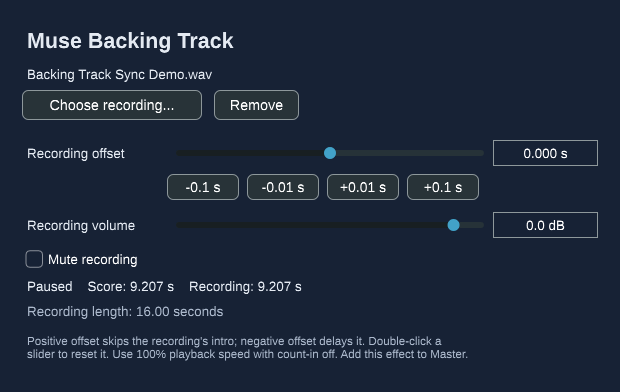
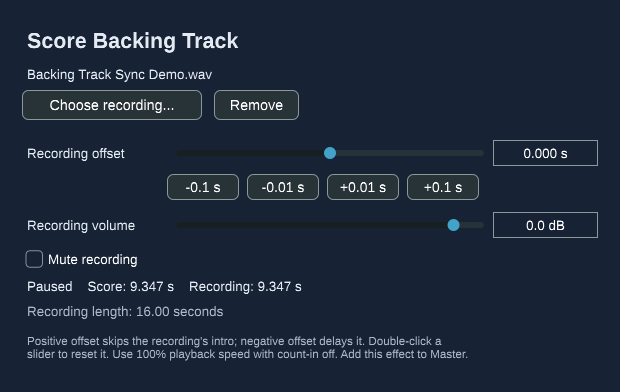
Rename to Score Backing Track (vendor AlltAWD), version 0.1.0
The 'Muse' name could read as an official Muse Group/MuseScore product.
New plugin identity: AlltAWD → Score Backing Track, bundle ID
io.github.alltawd.scorebackingtrack, manufacturer code Atwd.
GUI harness now selects the registry entry by plugin id.

Changed region(s): [[0.0306, 0.0612, 0.3984, 0.1531], [0.429, 0.7041, 0.4597, 0.7653]]

diff --git a/native/scripts/gui_native.py b/native/scripts/gui_native.py
@@ -29,7 +29,9 @@ def main(appimage):
     # restore-session dialog on the next run and block the test.
     (user_data / "session/session.json").unlink(missing_ok=True)
     registry = json.loads((root / "artifacts/native-verification/data/MuseScore/MuseScore4/known_audio_plugins.json").read_text())
-    registry[0]["path"] = str(Path.home() / ".vst3/Muse Backing Track.vst3")
+    # The scan registry can hold stale entries; keep only this plugin, at its installed path.
+    registry = [entry for entry in registry if entry["meta"]["id"] == "Score Backing Track"]
+    registry[0]["path"] = str(Path.home() / ".vst3/Score Backing Track.vst3")
     (user_data / "known_audio_plugins.json").write_text(json.dumps(registry))
     (user_data / "extensions").mkdir(exist_ok=True)
     (user_data / "extensions/config.json").write_text(json.dumps([{
@@ -157,6 +159,6 @@ MuseScore {
                 os.killpg(process.pid, signal.SIGKILL); process.wait(5)
     text = (out / "musescore.log").read_text(errors="replace")
     print("\n".join(line for line in text.splitlines() if any(x in line for x in ["NATIVEGUI", "TypeError", "ReferenceError", "VstView", "VstEditor", "Failed to"]))[-8000:])
-    assert "fx=Muse Backing Track" in text, "Native Master effect was not available"
+    assert "fx=Score Backing Track" in text, "Native Master effect was not available"
     assert (out / "playing.png").exists(), "Live transport test did not reach playback"
     print("Native GUI test reached play/pause/seek; screenshots:", out, flush=True)

diff --git a/native/scripts/verify_native.py b/native/scripts/verify_native.py
@@ -38,8 +38,8 @@ data.mkdir(exist_ok=True)
 env = {**os.environ, "XDG_CONFIG_HOME": str(config), "XDG_DATA_HOME": str(data),
     "QT_QPA_PLATFORM": "xcb", "QT_QUICK_BACKEND": "software", "QT_OPENGL": "software"}
 env.pop("PYTHONPATH", None)
-binary = root / "native/build/MuseBacking_artefacts/Release/VST3/Muse Backing Track.vst3"
-tests = root / "native/build/MuseBackingTests_artefacts/Release/MuseBackingTests"
+binary = root / "native/build/ScoreBacking_artefacts/Release/VST3/Score Backing Track.vst3"
+tests = root / "native/build/ScoreBackingTests_artefacts/Release/ScoreBackingTests"
 
 
 def run(name, command, timeout=90):
@@ -75,7 +75,7 @@ with zipfile.ZipFile(out / "base.mscz") as archive:
     settings = json.loads(archive.read("audiosettings.json"))
 print(json.dumps(settings, indent=2), flush=True)
 
-meta = next(item["meta"] for item in json.loads(registry.read_text()) if item["meta"]["id"] == "Muse Backing Track")
+meta = next(item["meta"] for item in json.loads(registry.read_text()) if item["meta"]["id"] == "Score Backing Track")
 assert "Generator" in meta["attributes"]["categories"], "Host must recognize generator category"
 # The registry and score serializers use different names for the same type.
 meta["type"] = "vst_plugin"

diff --git a/native/scripts/install_native.py b/native/scripts/install_native.py
@@ -8,7 +8,7 @@ import sys
 
 root = Path(__file__).resolve().parents[2]
 parser = argparse.ArgumentParser(description=__doc__)
-parser.add_argument("--bundle", type=Path, default=root / "native/build/MuseBacking_artefacts/Release/VST3/Muse Backing Track.vst3")
+parser.add_argument("--bundle", type=Path, default=root / "native/build/ScoreBacking_artefacts/Release/VST3/Score Backing Track.vst3")
 parser.add_argument("--destination", type=Path)
 args = parser.parse_args()
 if args.destination:
@@ -25,4 +25,4 @@ target = directory / args.bundle.name
 directory.mkdir(parents=True, exist_ok=True)
 shutil.copytree(args.bundle, target, dirs_exist_ok=True)
 print("Installed:", target)
-print("Restart MuseScore. In Mixer, add MuseBacking → Muse Backing Track to Master effects.")
+print("Restart MuseScore. In Mixer, add AlltAWD → Score Backing Track to Master effects.")

diff --git a/native/src/PluginProcessor.cpp b/native/src/PluginProcessor.cpp
@@ -19,7 +19,7 @@ juce::AudioProcessorValueTreeState::ParameterLayout BackingProcessor::makeParame
 BackingProcessor::BackingProcessor()
     : AudioProcessor(BusesProperties().withInput("Input", juce::AudioChannelSet::stereo(), true)
                                      .withOutput("Output", juce::AudioChannelSet::stereo(), true)),
-      parameters(*this, nullptr, "MuseBackingState", makeParameters()),
+      parameters(*this, nullptr, "ScoreBackingState", makeParameters()),
       offsetParameter(parameters.getRawParameterValue("offset")),
       gainParameter(parameters.getRawParameterValue("gain")),
       muteParameter(parameters.getRawParameterValue("mute"))

diff --git a/native/src/PluginEditor.cpp b/native/src/PluginEditor.cpp
@@ -10,7 +10,7 @@ BackingEditor::BackingEditor(BackingProcessor& owner)
         addAndMakeVisible(*label);
         label->setColour(juce::Label::textColourId, juce::Colour(0xffe4eaf2));
     }
-    title.setText("Muse Backing Track", juce::dontSendNotification);
+    title.setText("Score Backing Track", juce::dontSendNotification);
     title.setFont(juce::Font(24.0f, juce::Font::bold));
     offsetLabel.setText("Recording offset", juce::dontSendNotification);
     gainLabel.setText("Recording volume", juce::dontSendNotification);

diff --git a/native/src/PluginProcessor.h b/native/src/PluginProcessor.h
@@ -11,7 +11,7 @@ public:
     BackingProcessor();
     ~BackingProcessor() override;
 
-    const juce::String getName() const override { return "Muse Backing Track"; }
+    const juce::String getName() const override { return "Score Backing Track"; }
     void prepareToPlay(double sampleRate, int maximumBlockSize) override;
     void releaseResources() override {}
     bool isBusesLayoutSupported(const BusesLayout&) const override;

diff --git a/native/README.md b/native/README.md
@@ -1,4 +1,4 @@
-# Muse Backing Track — native VST3, version 0.2.0
+# Score Backing Track — native VST3, version 0.1.0
 
 Play a recording directly inside MuseScore's audio engine. The plugin is an
 audio effect loaded through the Mixer and needs nothing else at runtime.
@@ -7,7 +7,7 @@ audio effect loaded through the Mixer and needs nothing else at runtime.
 
 1. Install the VST3 bundle once, then restart MuseScore so it discovers it.
 2. Open the Mixer with **F10**.
-3. In the **Master** channel's effects area, add **MuseBacking → Muse Backing Track**.
+3. In the **Master** channel's effects area, add **AlltAWD → Score Backing Track**.
 4. Open that effect's editor and click **Choose recording...**.
 5. Choose a WAV, MP3, FLAC, OGG, or AIFF recording.
 6. Press Play in MuseScore. The recording follows the host's playback position.
@@ -32,7 +32,7 @@ and comprehensive repeat/jump/fermata support are not implemented.
 
 ## Linux installation
 
-The bundle belongs in `~/.vst3/Muse Backing Track.vst3/`. Keep the whole directory,
+The bundle belongs in `~/.vst3/Score Backing Track.vst3/`. Keep the whole directory,
 including `Contents`; copying only the `.so` is insufficient.
 
 From the project directory after building:
@@ -55,12 +55,12 @@ Web browsing and curl are disabled for the plugin. No standalone app is built.
 
 ```bash
 cmake -S native -B native/build -DCMAKE_BUILD_TYPE=Release
-cmake --build native/build --config Release --target MuseBacking_VST3 MuseBackingTests -j 3
+cmake --build native/build --config Release --target ScoreBacking_VST3 ScoreBackingTests -j 3
 ```
 
 CMake downloads JUCE 7.0.12 on a fresh build. To use an existing checkout, add
 `-DJUCE_PATH=/absolute/path/to/JUCE7` when configuring. The default output is
-`native/build/MuseBacking_artefacts/Release/VST3/Muse Backing Track.vst3`.
+`native/build/ScoreBacking_artefacts/Release/VST3/Score Backing Track.vst3`.
 
 The same CMake project supports a Windows build with Visual Studio's C++ tools.
 GitHub Actions (`.github/workflows/build.yml`) builds and runs the processor
@@ -77,7 +77,7 @@ state restoration, missing files, removal, and cancellation of stale decodes.
 With an X server available:
 
 ```bash
-native/build/MuseBackingTests_artefacts/Release/MuseBackingTests
+native/build/ScoreBackingTests_artefacts/Release/ScoreBackingTests
 ```
 
 On a headless Linux machine, run it under `xvfb-run -a`.

diff --git a/README.md b/README.md
@@ -1,4 +1,4 @@
-# Muse Backing Track
+# Score Backing Track
 
 Play a local recording in sync with MuseScore Studio's score playback.
 
@@ -17,7 +17,7 @@ QML plugin, or background service is needed.
 
 1. Download the zip for your platform from the
    [Releases](../../releases) page and extract it. You get a folder named
-   `Muse Backing Track.vst3`. Keep the whole folder.
+   `Score Backing Track.vst3`. Keep the whole folder.
 2. Put that folder in your VST3 directory:
    - **Linux:** `~/.vst3/`
    - **Windows:** `C:\Program Files\Common Files\VST3\`
@@ -31,7 +31,7 @@ Reports are welcome.
 
 1. Open the Mixer (**F10**).
 2. In the **Master** channel's audio-effects slot, add
-   **MuseBacking → Muse Backing Track**.
+   **AlltAWD → Score Backing Track**.
 3. In the effect's window, click **Choose recording...** (WAV, MP3, FLAC, OGG
    or AIFF).
 4. Press Play. The recording follows MuseScore's playhead, including

diff --git a/VERIFICATION.md b/VERIFICATION.md
@@ -1,7 +1,7 @@
 # Verification — 2026-10-26
 
 - Ubuntu 24.04 x86-64, MuseScore Studio 4.7.5 official AppImage.
-- 37 native processor checks pass (`ctest` / `MuseBackingTests`).
+- 37 native processor checks pass (`ctest` / `ScoreBackingTests`).
 - MuseScore exported all 705,600 backing samples of the demo with every
   instrument muted; RMS error versus the source: 1.07e-10.
 - Removing the effect yields a silent reference (peak 4.8e-9). Both export
